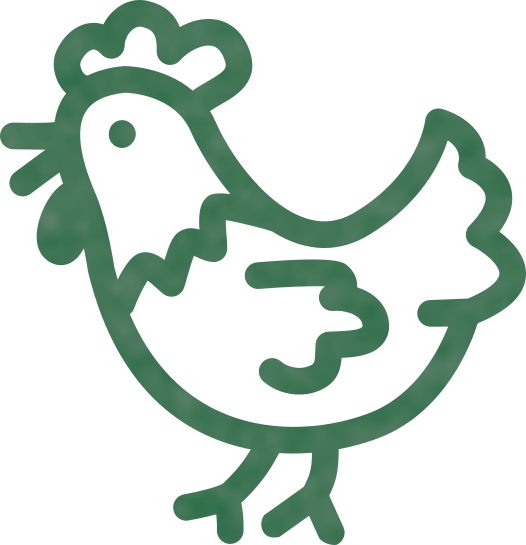
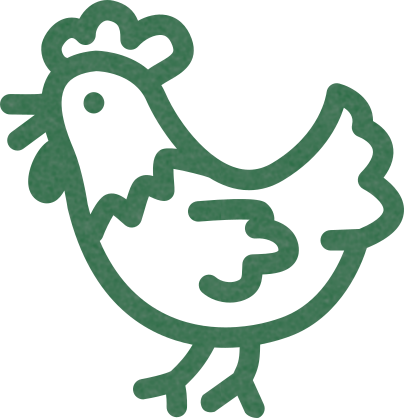
scale table elements

diff --git a/style.css b/style.css
@@ -20,11 +20,11 @@ body {
 }
 #blackjackPay {
   font-family: "Spectral SC", serif;
-  font-size: 2.75em;
+  font-size: 2em;
   color: #b50d02;
   text-align: center;
   z-index: 1;
-  margin-top: 7rem;
+  margin-top: 9.5rem;
  
 }
 .dealRule {
@@ -33,10 +33,10 @@ body {
 
 #softHit {
   font-family: "Spectral SC", serif;
-  font-size: 2.5em;
+  font-size: 2em;
   color: #f2cb05;
   text-align: center;
-  margin-top: 6rem;
+  margin-top: 5rem;
 
 }
 /* .dealerCard1 {
@@ -116,7 +116,7 @@ body {
   justify-self: end;
   border-radius: 5px;
 } */
-.playerCard1 {
+/* .playerCard1 {
   grid-area: 11 / 5 / 11 / 5;
   z-index: 1;
   font-size: 150px;
@@ -148,7 +148,7 @@ body {
   background: white;
   justify-self: start;
   border-radius: 5px;
-}
+} */
 
 /* 
  */
@@ -164,42 +164,42 @@ body {
   border-radius: 5px;
 } */
 #circle1 {
-  grid-area: 9 / 2 / 13 / 4;
-  justify-self: end;
-  width: 200px;
-  height: 200px;
+  grid-area: 10 / 3 / 13 / 5;
+  justify-self: start;
+  width: 175px;
+  height: 175px;
   border-radius: 50%;
   background: #166837 url(/assets/felt.png);
 }
 #circle2 {
   grid-area: 11 / 4 / 15 / 6;
   justify-self: center;
-  width: 200px;
-  height: 200px;
+  width: 175px;
+  height: 175px;
   border-radius: 50%;
   background: #166837 url(/assets/felt.png);
 }
 #circle3 {
-  grid-area: 9 / 6 / 13 / 8;
-  justify-self: start;
-  width: 200px;
-  height: 200px;
+  grid-area: 10 / 5 / 13 / 7;
+  justify-self: end;
+  width: 175px;
+  height: 175px;
   border-radius: 50%;
   background: #166837 url(/assets/felt.png);
 }
 #circle4 {
-  grid-area: 5 / 1 / 9 / 3;
-  justify-self: end;
-  width: 200px;
-  height: 200px;
+  grid-area: 7 / 2 / 9 / 4;
+  justify-self: start;
+  width: 175px;
+  height: 175px;
   border-radius: 50%;
   background: #166837 url(/assets/felt.png);
 }
 #circle5 {
-  grid-area: 5 / 7 / 9 / 9;
-  justify-self: start;
-  width: 200px;
-  height: 200px;
+  grid-area: 7 / 6 / 9 / 8;
+  justify-self: end;
+  width: 175px;
+  height: 175px;
   border-radius: 50%;
   background: #166837 url(/assets/felt.png);
 }
@@ -208,7 +208,7 @@ body {
   display: block;
   margin-left: auto;
   margin-right: auto;
-  margin-top: 2.75rem;
+  margin-top: 2rem;
 }
 #leg1 {
 }
@@ -226,10 +226,7 @@ body {
 }
 .chicken-container {
   grid-area: 4/4/8/6;
-  display: block;
 }
-.chicken {
-  height: 20rem;
-  margin-left: auto;
-  margin-right: auto;
+.chicken{
+  margin: auto;
 }

diff --git a/index.html b/index.html
@@ -30,7 +30,7 @@
     <div class="playerCard6">&#127137</div>
     <div class="playerCard7">&#127137</div> -->
     <div class='chicken-container'>
-      <img src='assets/chicken.png' alt='chicken icon' class='chicken'>
+      <img src='assets/g2741.png' alt='chicken icon' class='chicken'>
     </div>    
     <div class="payRule">
       <p class="payRule" id="blackjackPay">blackjack pays 3 to 2</p>
